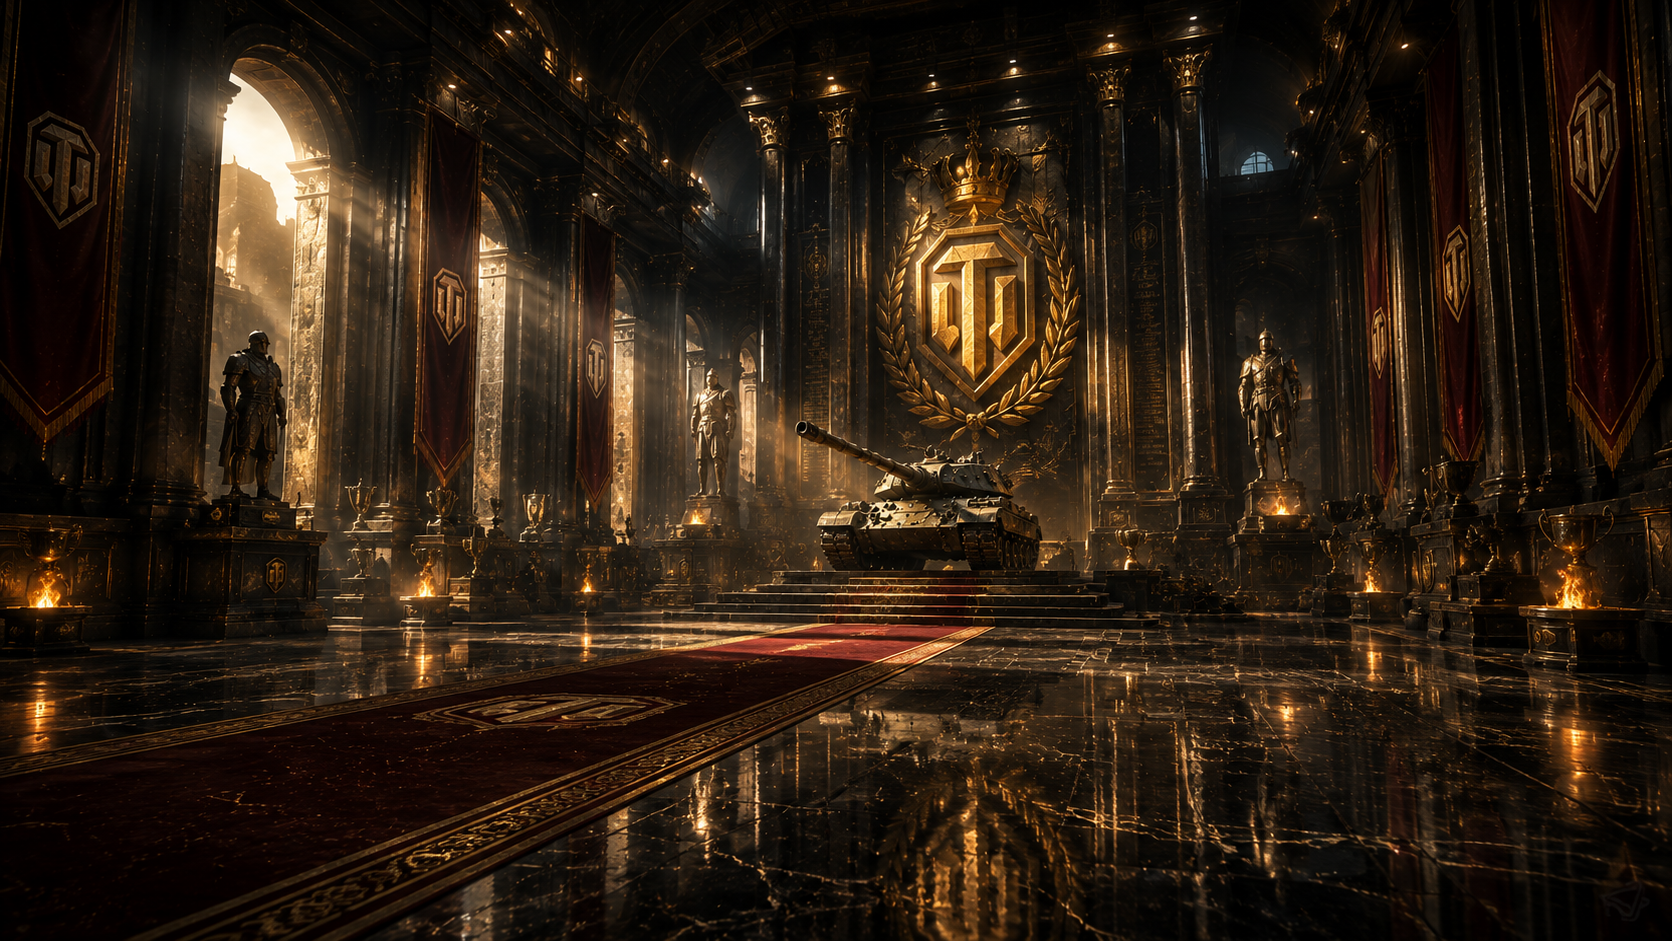
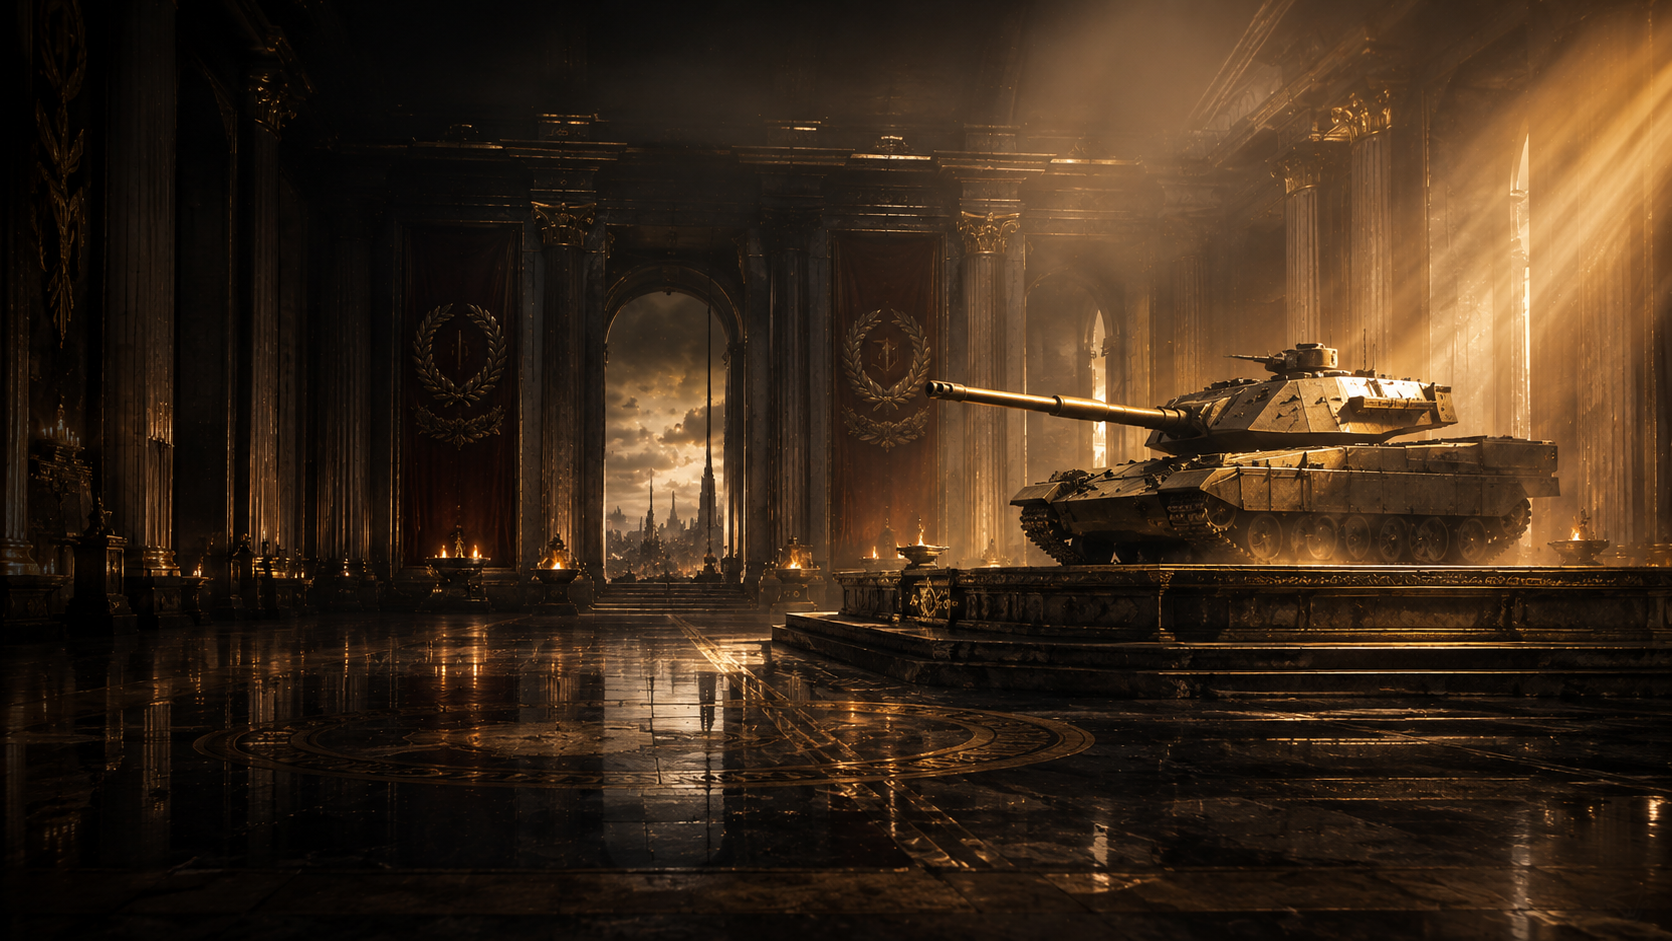
fix(showcase): update backgrounds to remove brand marks and copyright risks

diff --git a/frontend/src/assets/showcase/README.md b/frontend/src/assets/showcase/README.md
@@ -16,22 +16,22 @@
 
 > 全部标记为 **REPLACEABLE_GENERATED_SHOWCASE_ASSET**：未来可直接替换同路径文件，无需改代码。替换后按「替换流程」检查三档响应式 crop。
 
-| Page | File | Role | 替换约束 |
-|---|---|---|---|
-| Home — Hero | `home/hero-v4.png` | Hero 横幅背景（全屏 + hero 内背景） | 坦克主体应在画面右侧、左侧留暗色负空间给文案；保持宽幅（约 2.5:1）；不得含可读文字/按钮 |
-| Home — Replay 卡片 | `home/card-replay-analysis-v1.png` | feature card media area（3:2 裁切） | 建议 3:2；主体居中即可，卡片以 object-fit: cover 裁切 |
-| Home — HoF 卡片 | `home/card-hall-of-fame-v1.png` | feature card media area（3:2 裁切） | 同上 |
-| Home — Coaching 卡片 | `home/card-coaching-v1.png` | feature card media area（3:2 裁切） | 同上（训练场主题） |
-| Home — Support 卡片 | `home/card-support-v1.png` | feature card media area（3:2 裁切） | 同上（工坊/支持主题） |
-| Replay Parser | `replay/replay-hero-battlefield-v1.png` | 全屏背景 + upload 战术表面 | 16:9；暗部为主；不得出现 UI/dashboard 元素 |
-| Hall of Fame | `hof/hof-hero-hall-v1.png` | 全屏背景 | 16:9；金色荣誉大厅主题 |
-| Rating | `rating/rating-hero-analysis-v1.png` | 全屏背景 | 16:9；图片内即使有生成式 dashboard 元素也只能是低权重氛围，真实 Rating 数据必须覆盖在独立 readable surface 上 |
-| Profile | `profile/profile-hero-camp-v1.png` | 全屏背景 + profile-hero 表面 | 16:9；不引入 avatar 依赖 |
-| Boost | `boost/boost-hero-training-v1.png` | 全屏背景 | 16:9；训练场主题 |
-| Admin Users | `admin/admin-hero-command-v1.png` | 全屏背景（强度较弱） | 16:9；Operations Console 优先，管理效率优先 |
-| HoF Admin | `hof-admin/hof-admin-hero-command-v1.png` | 全屏背景（强度较弱） | 16:9；CRUD / review 数据必须保持清晰 |
-| Version / Changelog | `version/version-hero-workshop-v1.png` | 全屏背景 | 16:9；工坊主题 |
-| Contact | `contact/contact-hero-radio-v1.png` | 全屏背景 | 16:9；通信塔/无线电主题 |
+| Page                 | File                                      | Role                                | 替换约束                                                                                                      |
+|----------------------|-------------------------------------------|-------------------------------------|---------------------------------------------------------------------------------------------------------------|
+| Home — Hero          | `home/hero-v4.png`                        | Hero 横幅背景（全屏 + hero 内背景） | 坦克主体应在画面右侧、左侧留暗色负空间给文案；保持宽幅（约 2.5:1）；不得含可读文字/按钮                       |
+| Home — Replay 卡片   | `home/card-replay-analysis-v1.png`        | feature card media area（3:2 裁切） | 建议 3:2；主体居中即可，卡片以 object-fit: cover 裁切                                                         |
+| Home — HoF 卡片      | `home/card-hall-of-fame-v1.png`           | feature card media area（3:2 裁切） | 同上                                                                                                          |
+| Home — Coaching 卡片 | `home/card-coaching-v1.png`               | feature card media area（3:2 裁切） | 同上（训练场主题）                                                                                            |
+| Home — Support 卡片  | `home/card-support-v1.png`                | feature card media area（3:2 裁切） | 同上（工坊/支持主题）                                                                                         |
+| Replay Parser        | `replay/replay-hero-battlefield-v1.png`   | 全屏背景 + upload 战术表面          | 16:9；暗部为主；不得出现 UI/dashboard 元素                                                                    |
+| Hall of Fame         | `hof/hof-hero-hall-v1.png`                | 全屏背景                            | 16:9；金色荣誉大厅主题                                                                                        |
+| Rating               | `rating/rating-hero-analysis-v1.png`      | 全屏背景                            | 16:9；图片内即使有生成式 dashboard 元素也只能是低权重氛围，真实 Rating 数据必须覆盖在独立 readable surface 上 |
+| Profile              | `profile/profile-hero-camp-v1.png`        | 全屏背景 + profile-hero 表面        | 16:9；不引入 avatar 依赖                                                                                      |
+| Boost                | `boost/boost-hero-training-v1.png`        | 全屏背景                            | 16:9；训练场主题                                                                                              |
+| Admin Users          | `admin/admin-hero-command-v1.png`         | 全屏背景（强度较弱）                | 16:9；Operations Console 优先，管理效率优先                                                                   |
+| HoF Admin            | `hof-admin/hof-admin-hero-command-v1.png` | 全屏背景（强度较弱）                | 16:9；CRUD / review 数据必须保持清晰                                                                          |
+| Version / Changelog  | `version/version-hero-workshop-v1.png`    | 全屏背景                            | 16:9；工坊主题                                                                                                |
+| Contact              | `contact/contact-hero-radio-v1.png`       | 全屏背景                            | 16:9；通信塔/无线电主题                                                                                       |
 
 隐藏的 `PlaybackQaPage` 是 QA / production-component verification 页面，不属于正式产品 Showcase，因此不创建营销背景。
 

diff --git a/docs/CHANGELOG.md b/docs/CHANGELOG.md
@@ -41,6 +41,7 @@
 - **Frontend application-shell routing foundation（PR1）**：引入 Vue Router 作为 SPA history/deep-link owner，保留 `?view=` 公开 URL、旧别名（leaderboard / extended / reconstruction）与 `/download/android[/]` 兼容；`App.vue` 收敛为最小路由根，应用壳、顶栏、用户菜单、全局错误弹窗与页面注册迁入 `src/app/`。新增前端架构约定、可复用 `frontend-architecture` skill 与架构文档，为后续 Replay 状态/Workspace/Playback 分步迁移建立边界；未改变后端契约或产品流程。
 
 ### Fixed
+- **Showcase 背景素材版权风险收口**：替换主页、回放、名人堂、Rating、Profile、Boost、Admin、HoF Admin、版本与联系页的正式 PNG 背景，移除原背景中可识别的 WG / World of Tanks 品牌图形与文字；页面槽位、遮罩和响应式布局保持不变。
 - **Android WebView 登录 Cookie / OAuth 链路修复**：Android WebView 现在显式启用认证所需的
   first-party/third-party Cookie；Keycloak → QQ/IdP → callback 认证事务保持在同一个 WebView
   cookie jar 中，不再因中间导航切入系统浏览器而分裂 session。provider 仍使用证据驱动的精确

diff --git a/docs/CHANGELOG-PRODUCT.md b/docs/CHANGELOG-PRODUCT.md
@@ -8,6 +8,7 @@
 - **百场统一人工审核**：移除 WG 官方统计自动认证入口；使用 Wargaming ASIA/EU/NA 登录的玩家仍可正常登录并同步个人资料，百场提交统一上传成绩截图和正好 5 个回放，沿用人工审核。
 
 ### Fixed
+- **更新 Showcase 背景**：主页及各功能页现在使用无品牌标识的原创战术场景背景，去除原背景中可能引发版权风险的 WG / World of Tanks 图形与文字；页面功能和布局不变。
 - **Android QQ / Keycloak 登录修复**：Android 登录现在会把完整认证过程保持在同一个 WebView 中，
   并显式启用登录所需 Cookie；不会在 QQ 登录中途意外打开系统浏览器导致会话丢失。普通外链仍按原规则
   打开系统浏览器。
